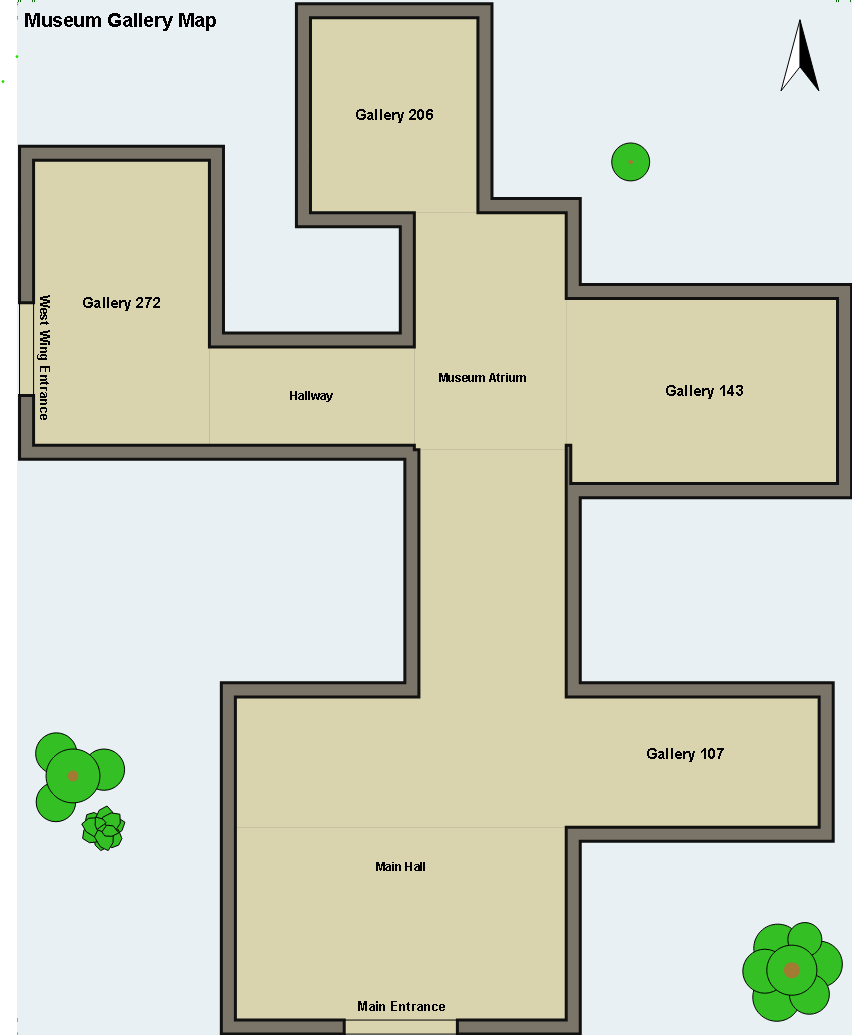
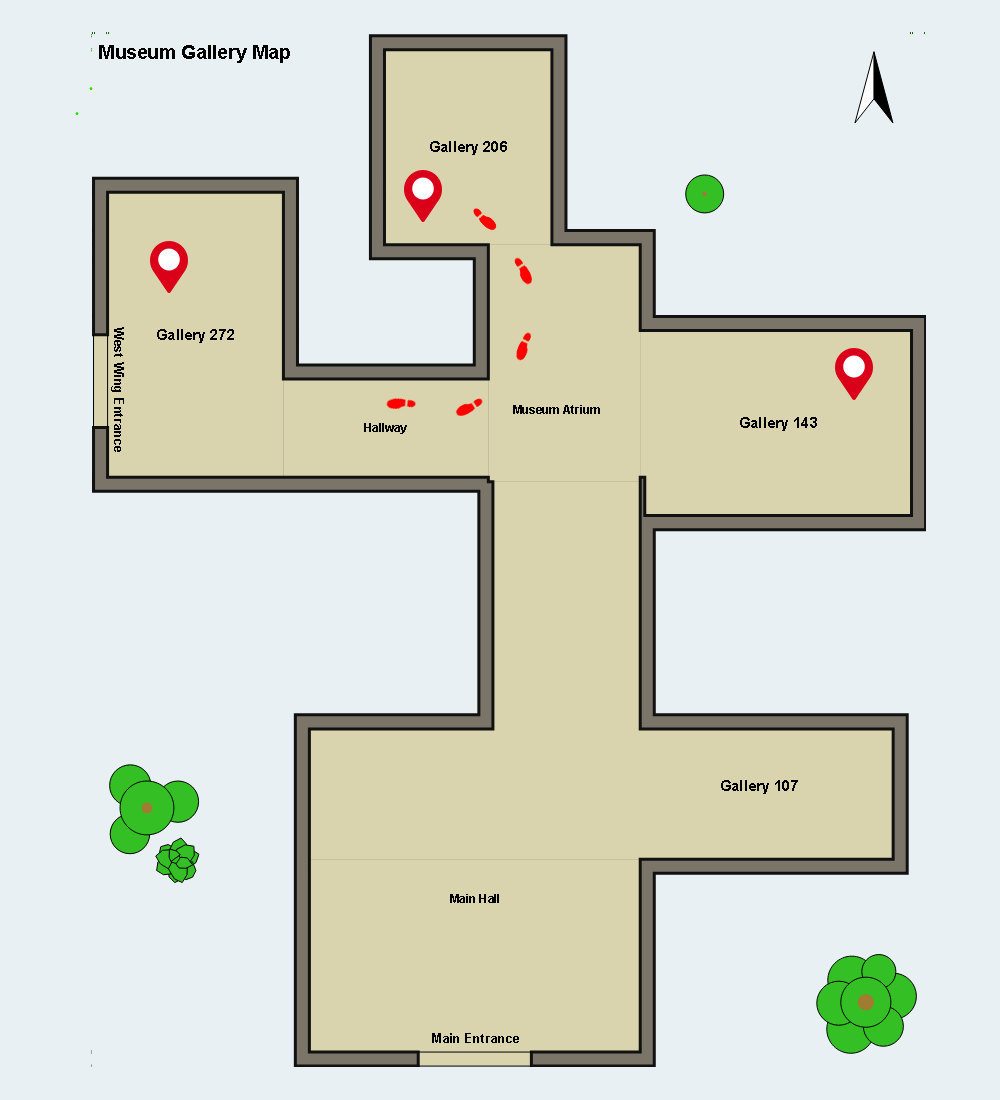
Improved on map, write contribution, fix how to run in readme.md

diff --git a/web/app/gallery/page.js b/web/app/gallery/page.js
@@ -28,6 +28,7 @@ export default function GalleryPage() {
                         alt="Museum map"
                         width={1200}
                         height={900}
+                        loading="eager"
                     />
                 </div>
             </div>

diff --git a/web/README.md b/web/README.md
@@ -2,11 +2,12 @@
 
 ---
 ## How to run the Frontend
-1. Install Node.js 24
-2. npm install (Install dependencies)
-3. cp .env.example .env (copy '.env.example' to '.env') (optional)
-4. npm run dev (Start the frontend development server)
-5. npm run build (Build the application for production)
-
----
-## 
+1. Make sure Node.js 24 is installed
+2. cd api (Navigate to the api folder in terminal)
+3. Run npm run dev to start the API server. 
+2. In second terminal, cd web (Navigate to the front-end folder)
+2. npm install (Install front-emd dependencies, if not already installed)
+3. cp .env.example .env.local(copy '.env.example' to '.env.local', if applicable)
+5. npm run dev (Start the Next.js development server)
+6. npm run build (Build the application for production, optional)
+7. The front end should run on http://localhost:3000
